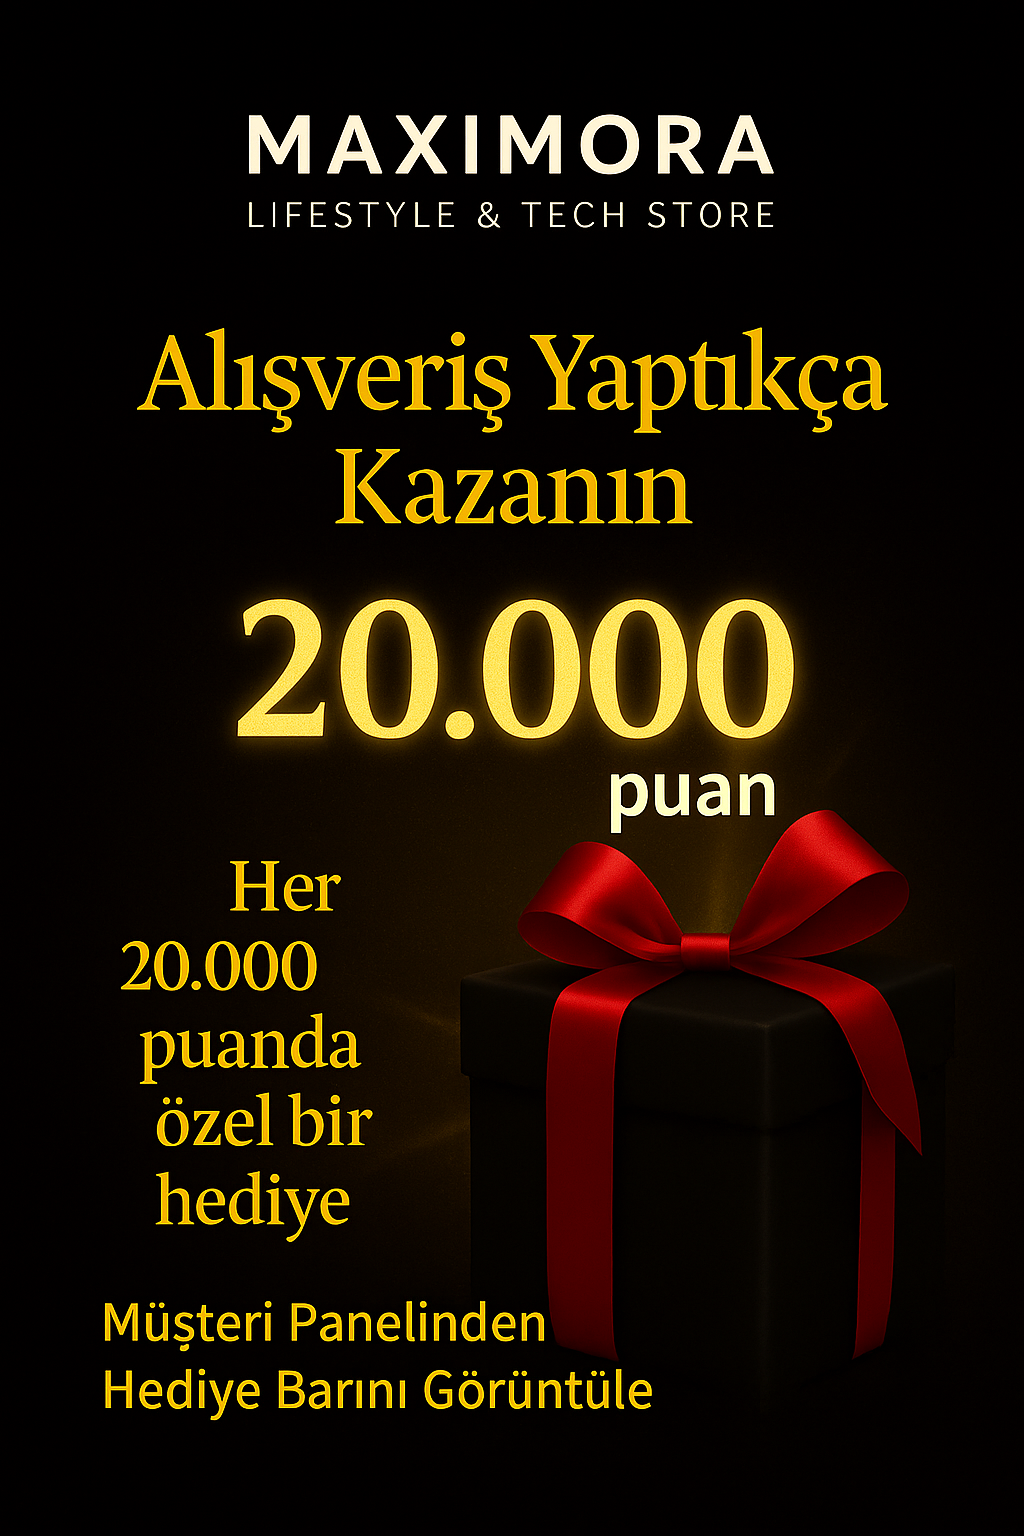
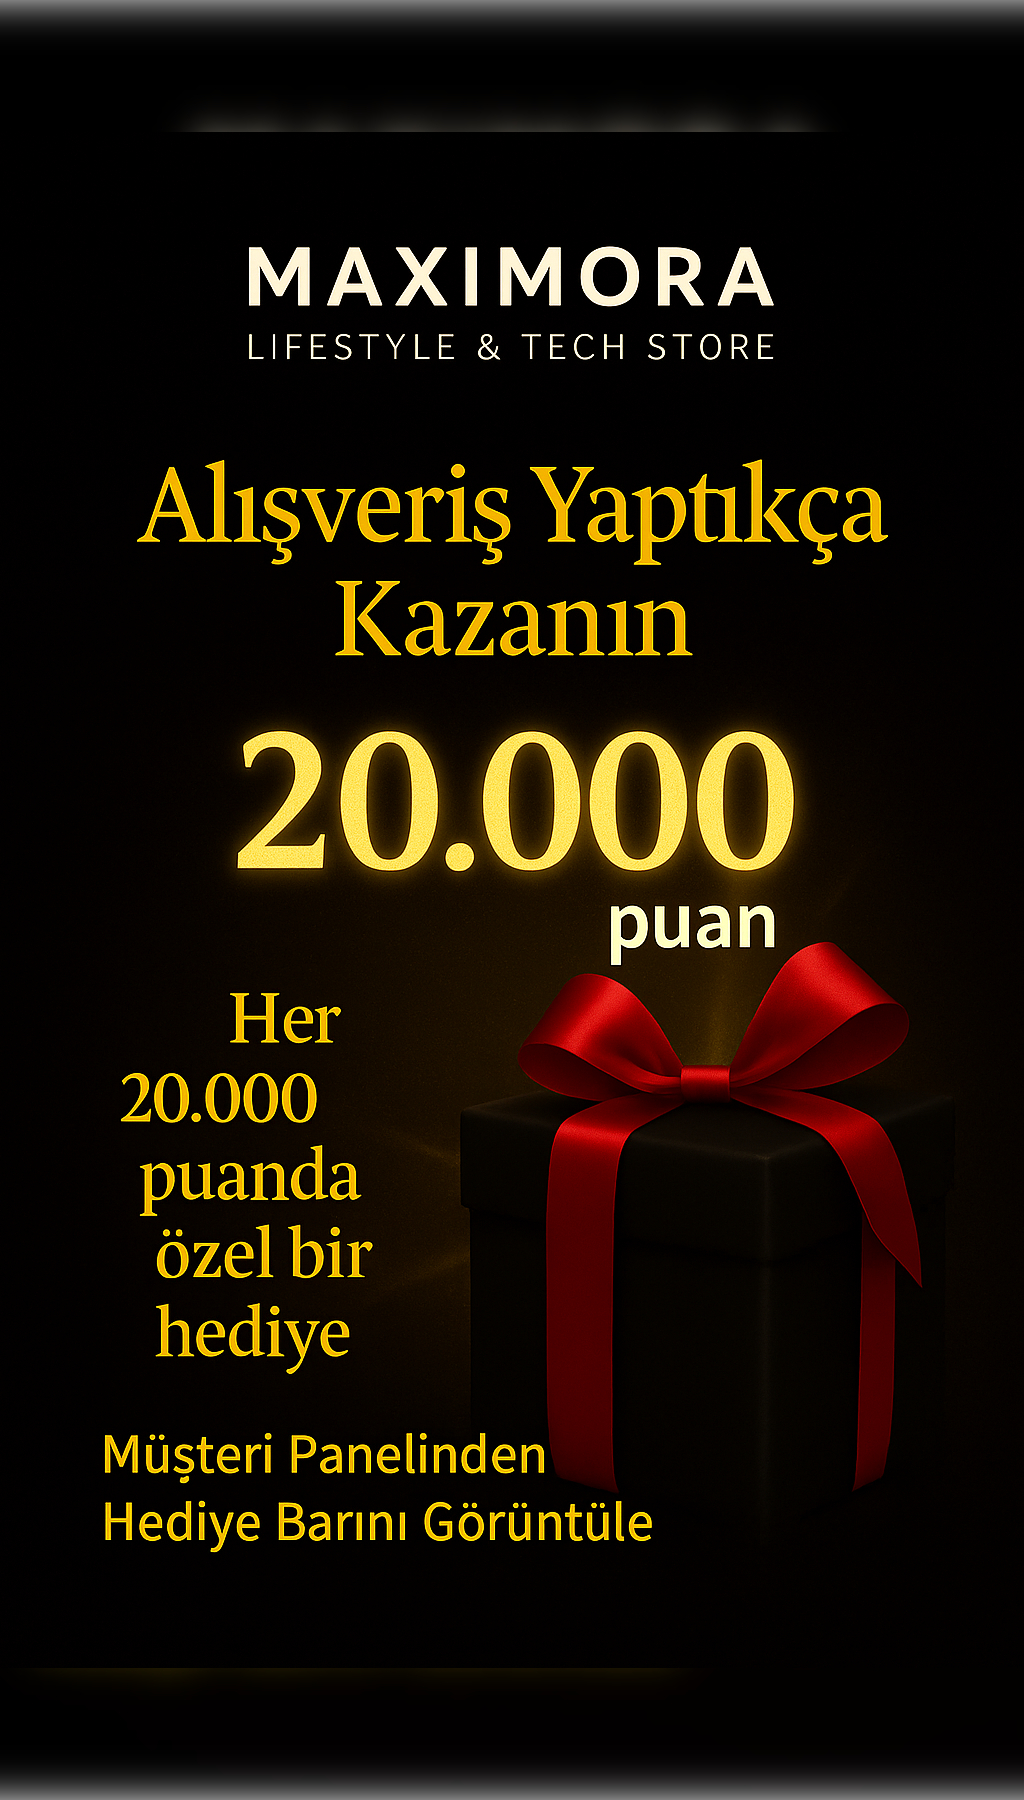
quickview responsive fix

diff --git a/src/pages/Home.jsx b/src/pages/Home.jsx
@@ -68,7 +68,8 @@ export default function Home() {
   return (
     <div className="min-h-screen bg-black text-white">
       {/* ✅ HERO SLIDER */}
-      <section className="relative w-full overflow-hidden mb-8 mt-12 sm:mt-0 -translate-y-8 sm:-translate-y-2">
+      <section className="relative w-full overflow-hidden mb-8 mt-10 sm:mt-0 -translate-y-10 sm:-translate-y-2">
+
 
 
         <div className="w-full h-[65vh] sm:h-[70vh] md:h-[80vh] lg:h-[80vh] sm:aspect-auto">
